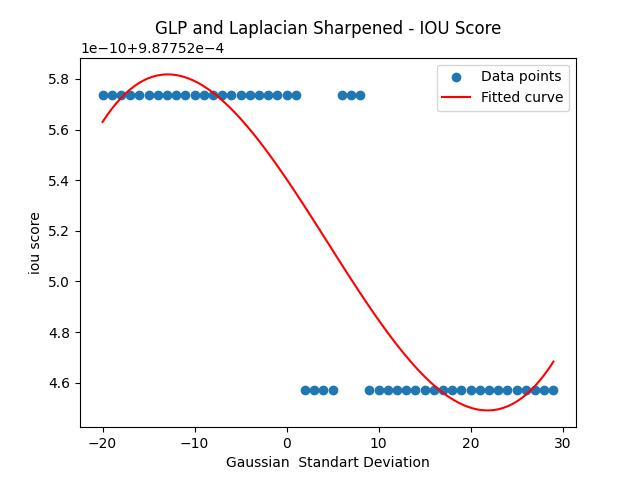
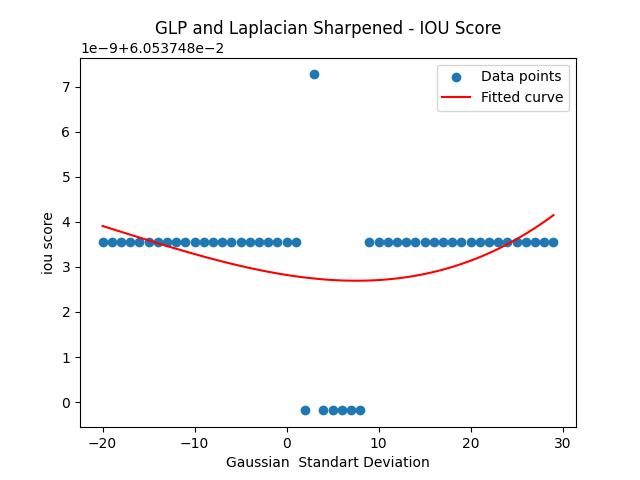
updated genererals

diff --git a/run_to_model.py b/run_to_model.py
@@ -40,13 +40,13 @@ cv2.imwrite(output_image_gray_path, output_image_gray)
 
 #maske pathi ayarla 
 input_mask_path = 'D:/linmig/mask_002.jpg'
-input_mask = cv2.imread(input_image_path, cv2.IMREAD_GRAYSCALE)
+input_mask = cv2.imread(input_mask_path, cv2.IMREAD_GRAYSCALE)
 input_mask = cv2.resize(input_mask, (256, 256))
 input_mask = np.expand_dims(input_mask, axis=-1) 
 input_mask = input_mask.astype(np.float32) / 255.0
 
 
 reverse_res = prediction_result.astype(np.float32) / 255.0
-iou = iou_score(side_res, input_mask)
+iou = iou_score(reverse_res, input_mask)
 
 print("IoU Score:", iou)

diff --git a/fastResults.py b/fastResults.py
@@ -73,7 +73,7 @@ for i in range(50):
 
     # iou score agrafik için listeye eklendi .numpy() float almamızı sağlar
     iouScore.append(iou.numpy())
-
+print(iouScore)
 
  ### Burada grafik isimlendirmesi oluyor  graphmaker2d.py dosyasında açıklaması var  ↓↓↓↓↓↓
 gmaker.graph(kernelSize, iouScore ,"GLP and Laplacian Sharpened - IOU Score" ,xname="Gaussian  Standart Deviation")
